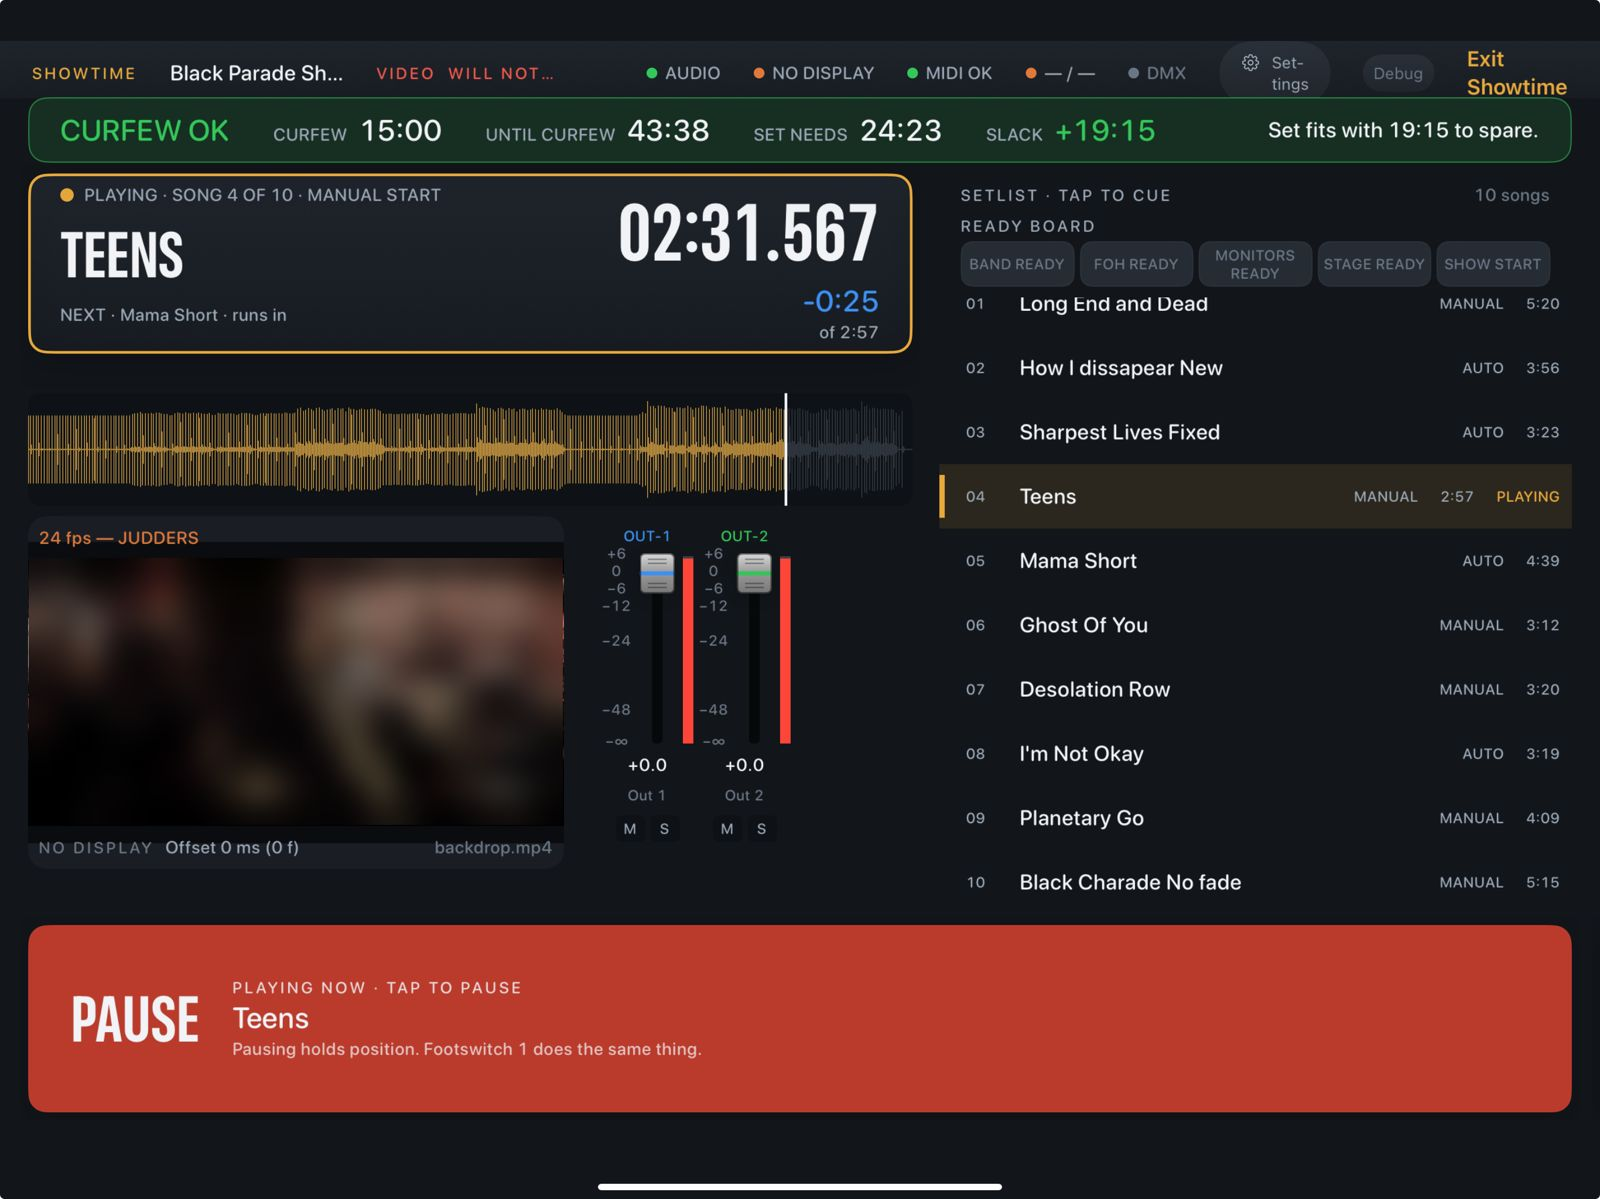
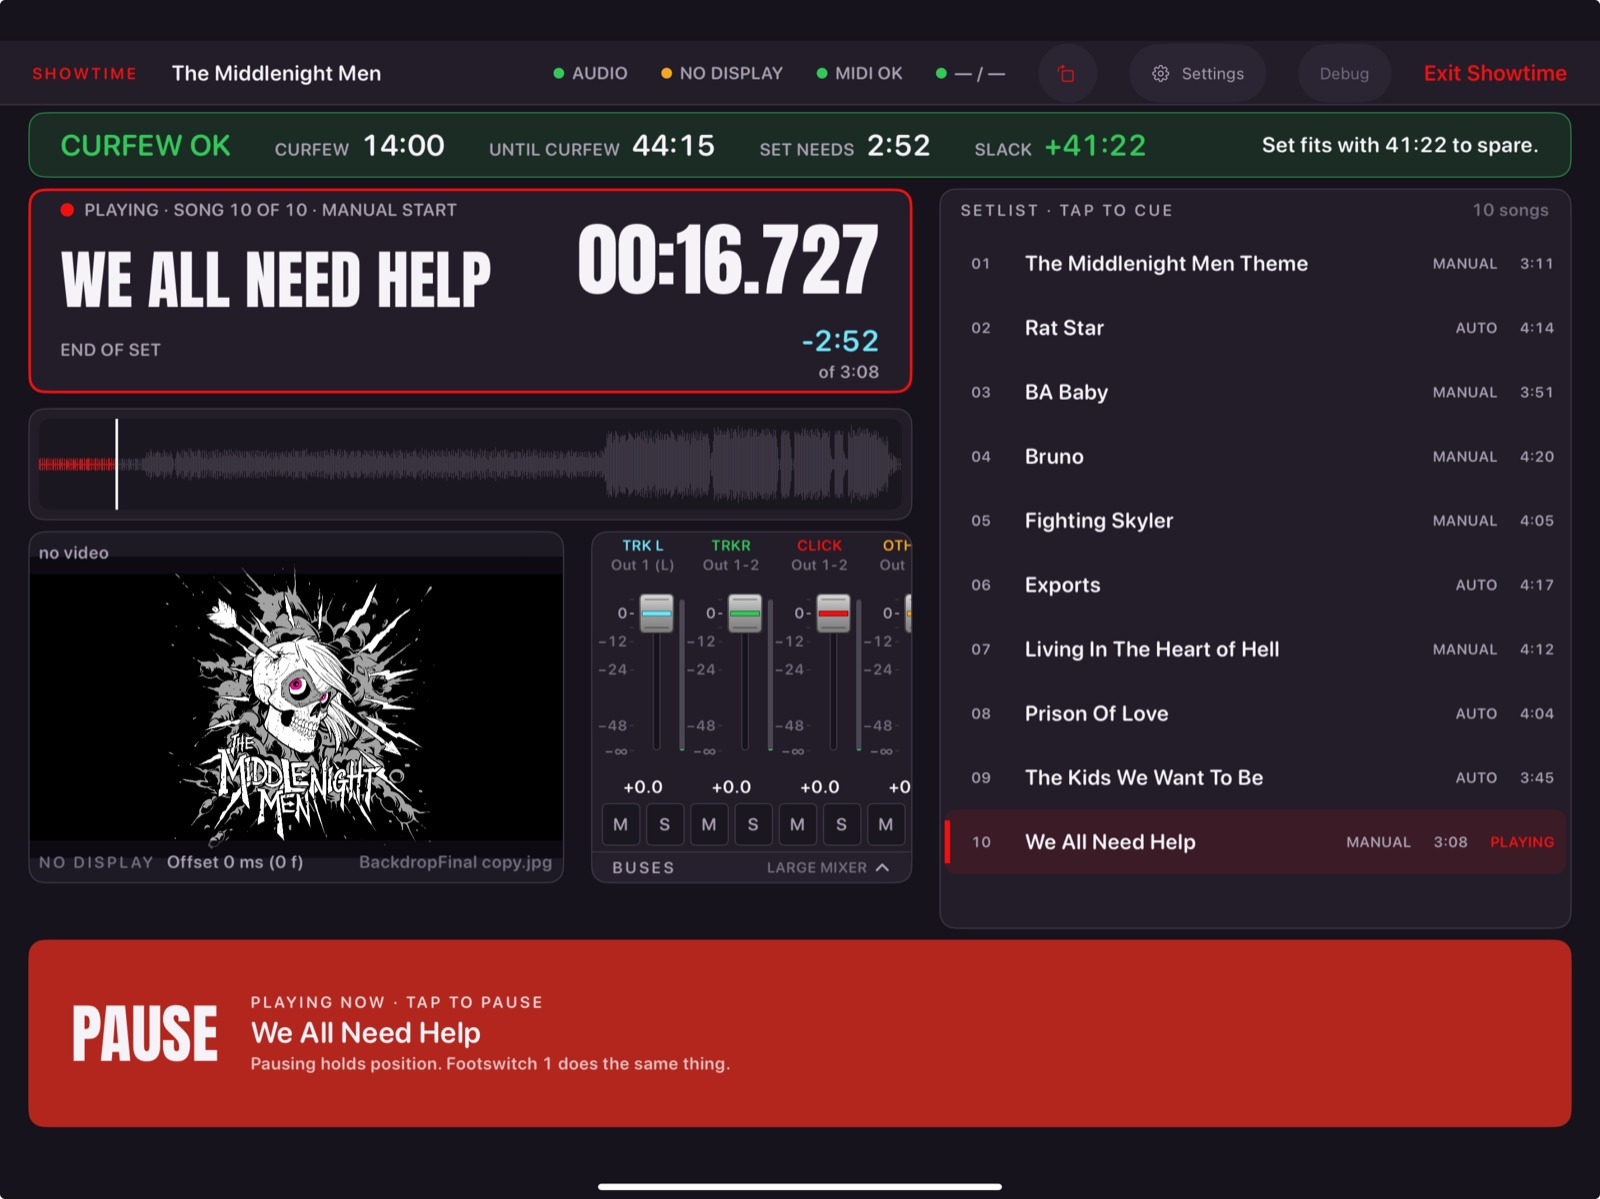
A hero shot of his own set, and the report screenshots stacked

Changed region(s): [[0.0, 0.0309, 1.0, 0.8949], [0.0, 0.9258, 1.0, 0.9566], [0.8438, 0.4012, 0.875, 0.432]]

diff --git a/src/index.html b/src/index.html
@@ -12,7 +12,7 @@
       </div>
       <p class="fine">Pre-release software, distributed through Apple's TestFlight.</p>
     </div>
-    <figure class="device-wrap"><div class="device"><img src="{{basePath}}/assets/img/showtime-playing.jpg" alt="Showtime on an iPad mid-song: the curfew bar, the song and its time, the waveform, bus faders, the set list and a large Pause bar" width="1600" height="1199"></div><figcaption>Showtime mid-song, the screen you play from</figcaption></figure>
+    <figure class="device-wrap"><div class="device"><img src="{{basePath}}/assets/img/showtime-playing.jpg" alt="Showtime on an iPad playing the last song of a ten song set: the curfew bar green, the song and its time, the waveform, bus faders, the set list and a full width Pause bar" width="1600" height="1199"></div><figcaption>Showtime mid-song, the screen you play from</figcaption></figure>
   </div>
 </header>
 
@@ -68,14 +68,13 @@
 </section>
 
 <section class="band">
-  <div class="wrap split">
+  <div class="wrap stack-lg">
     <div class="stack-lg">
       <div class="eyebrow">Built for the stage</div>
       <h2>One screen to play from.</h2>
       <p>Showtime is deliberately simple. The Play bar is big and never moves. You cue the next song first, then play it, so a stray tap does not start the wrong song.</p>
       <ul class="ticks"><li>A Play bar that never moves</li><li>Cue, then play</li><li>Problems on the status bar, in plain words</li><li>Leaving asks whether to keep the show playing</li></ul>
     </div>
-    <figure class="device-wrap shot"><div class="device"><img src="{{basePath}}/assets/img/showtime-last-song.jpg" alt="Showtime playing the last song of a ten song set, with the curfew bar green, the bus faders metering and a full width Pause bar" width="1600" height="1199" loading="lazy"></div><figcaption>The last song of the set, with the visual click</figcaption></figure>
   </div>
 </section>
 

diff --git a/src/beta.html b/src/beta.html
@@ -54,7 +54,7 @@
     <div class="eyebrow">Reporting</div>
     <h2>How to Send a Report</h2>
     <p class="lead">The app can send a report itself, with what it was doing at the time already filled in. That is always better than a description written from memory, because it carries the detail nobody remembers to mention.</p>
-    <div class="split" style="grid-template-columns:repeat(2,minmax(0,1fr));margin-top:12px">
+    <div class="stack-lg" style="margin-top:12px;max-width:900px">
       <figure class="device-wrap">
         <div class="device"><img src="{{basePath}}/assets/img/report-button.jpg" alt="The rig settings on an iPad, open at Troubleshooting, with a Send a report card explaining that you read the whole report before it goes anywhere" width="1600" height="1199" loading="lazy"></div>
         <figcaption>Where the report button lives</figcaption>
